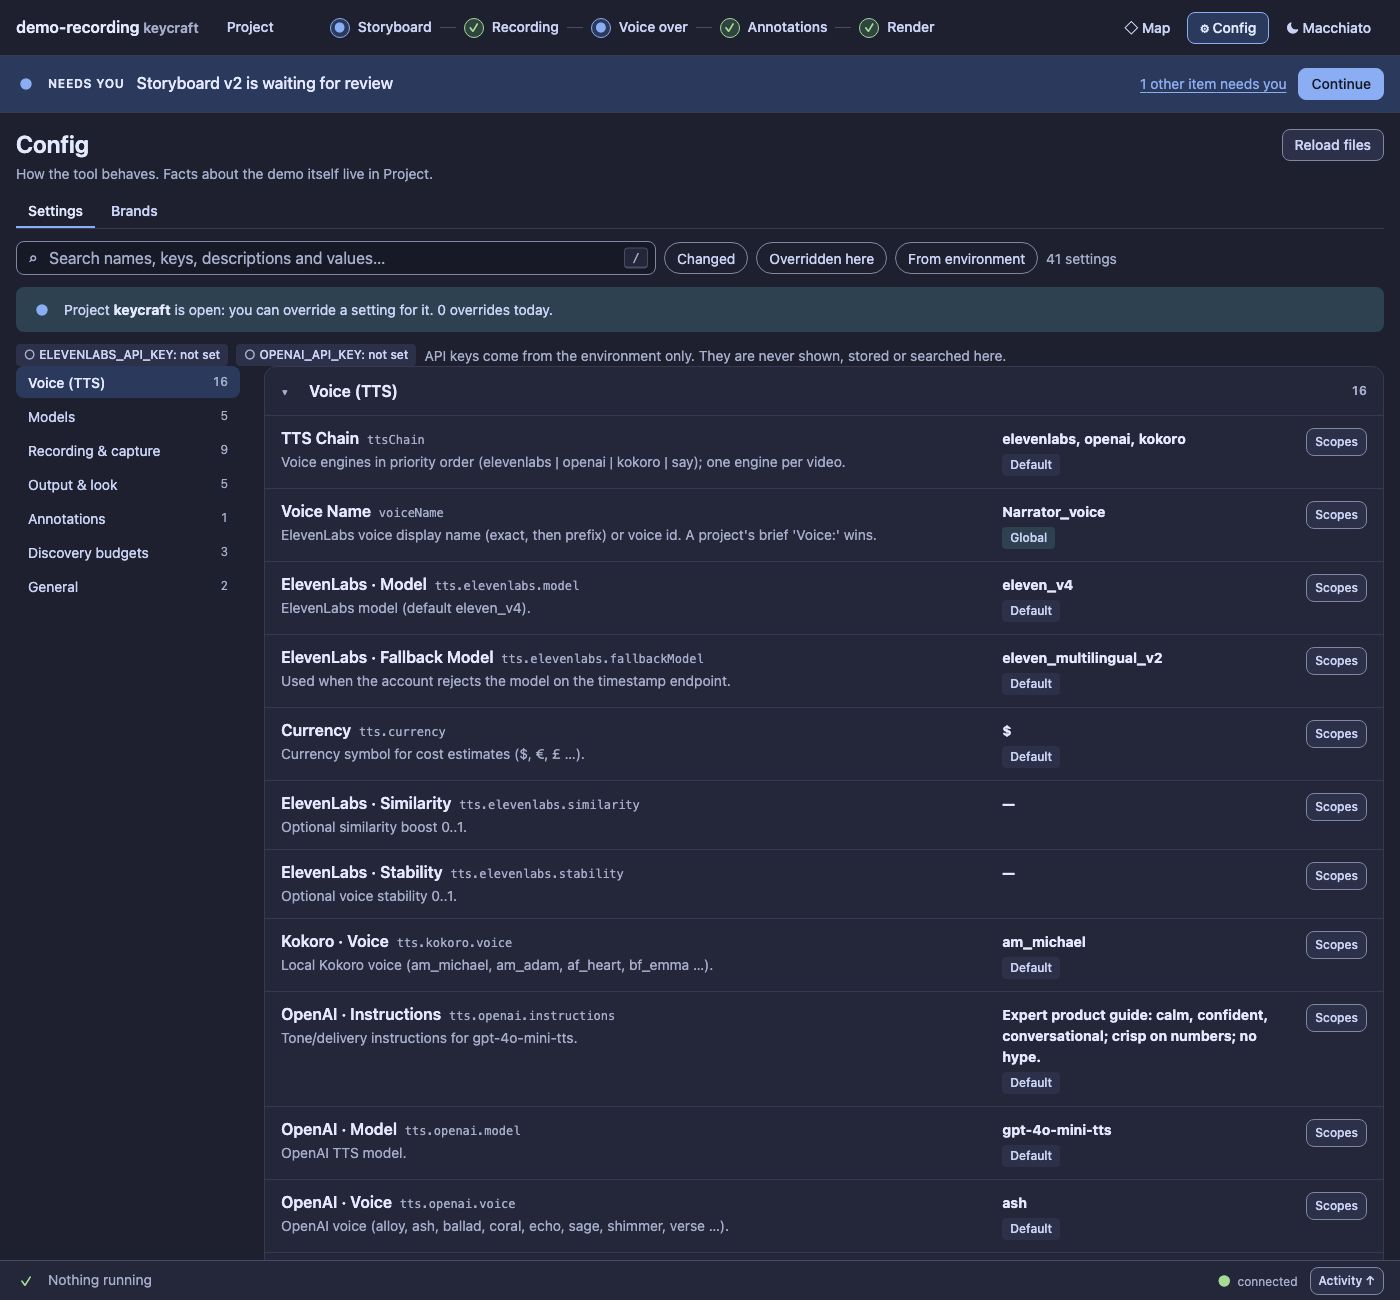
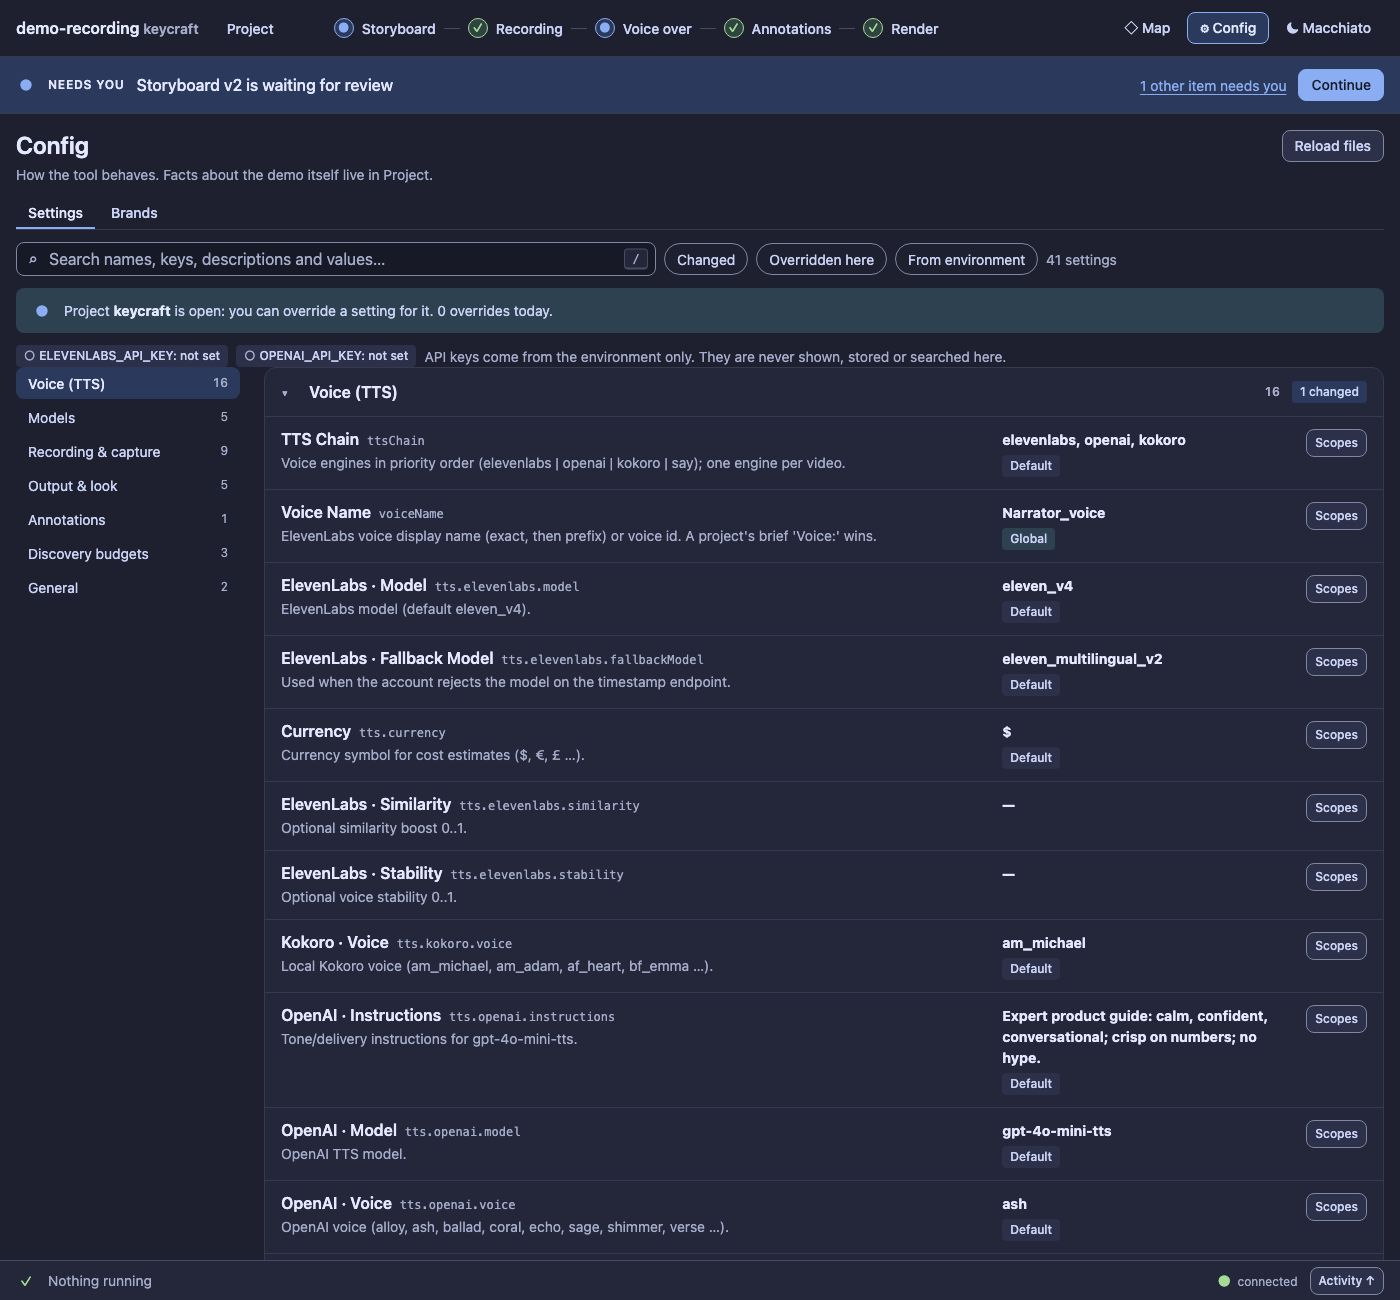
UX12: Config opens light (first group open, counts and changed markers on the group headers)

diff --git a/extensions/demo-recording/src/panel/public/config.js b/extensions/demo-recording/src/panel/public/config.js
@@ -4,6 +4,7 @@ import {
   FILTERS,
   filterGroups,
   highlight,
+  isChanged,
   queryFromSearch,
   same,
   searchFromQuery,
@@ -223,7 +224,8 @@ export function Settings({ events }) {
   const st = useMemo(() => searchFromQuery(route?.query), [route?.raw]);
   const [text, setText] = useState(st.q);
   const [rawTab, setRawTab] = useState("global");
-  const [collapsed, setCollapsed] = useState(new Set());
+  // Config opens light: only the first group is open until you open another one (a search opens what matches)
+  const [openGroups, setOpenGroups] = useState(null);
   const [openScopes, setOpenScopes] = useState(new Set());
   const [active, setActive] = useState(null);
   const input = useRef(null);
@@ -273,13 +275,16 @@ export function Settings({ events }) {
     .flatMap((g) => g.settings)
     .filter((s) => isSet(s.layers.project)).length;
   const firstHit = res.groups[0]?.id ?? data.groups[0]?.id;
-  const goTo = (id) => {
-    setActive(id);
-    setCollapsed((c) => {
-      const n = new Set(c);
-      n.delete(id);
+  const groupsOpen = openGroups ?? new Set(data.groups[0] ? [data.groups[0].id] : []);
+  const toggleGroup = (id) =>
+    setOpenGroups(() => {
+      const n = new Set(groupsOpen);
+      n.has(id) ? n.delete(id) : n.add(id);
       return n;
     });
+  const goTo = (id) => {
+    setActive(id);
+    setOpenGroups(() => new Set([...groupsOpen, id]));
     requestAnimationFrame(() =>
       document.getElementById(`g-${id}`)?.scrollIntoView({ block: "start" }),
     );
@@ -310,11 +315,12 @@ export function Settings({ events }) {
               res.searching && res.count === 0
                 ? html`<div class="ds-card"><div class="ds-state"><div class="ds-state-ico" aria-hidden="true">⌕</div><h3>No settings match${st.q.trim() ? ` “${st.q.trim()}”` : ""}</h3><p>Search looks at names, keys, descriptions and current values. Secrets are never searched.</p><button class="ds-btn" type="button" data-act="clear-search" onClick=${clear}>Clear search</button></div></div>`
                 : res.groups.map((g) => {
-                    const all =
-                      data.groups.find((x) => x.id === g.id)?.settings.length ?? g.settings.length;
-                    const isOpen = res.searching || !collapsed.has(g.id);
+                    const whole = data.groups.find((x) => x.id === g.id)?.settings ?? g.settings;
+                    const all = whole.length;
+                    const changedHere = whole.filter(isChanged).length;
+                    const isOpen = res.searching || groupsOpen.has(g.id);
                     return html`<section class="ds-group" id=${`g-${g.id}`} key=${g.id} aria-labelledby=${`gh-${g.id}`}>
-                      <button class="ds-group-head" id=${`gh-${g.id}`} type="button" data-group=${g.id} aria-expanded=${isOpen} onClick=${() => toggleIn(setCollapsed)(g.id)}><span class="ds-group-chev" aria-hidden="true">${isOpen ? "▾" : "▸"}</span>${g.label}<span class="ds-cfg-count">${res.searching ? `${g.settings.length} of ${all}` : all}</span></button>
+                      <button class="ds-group-head" id=${`gh-${g.id}`} type="button" data-group=${g.id} aria-expanded=${isOpen} onClick=${() => toggleGroup(g.id)}><span class="ds-group-chev" aria-hidden="true">${isOpen ? "▾" : "▸"}</span>${g.label}<span class="ds-cfg-count">${res.searching ? `${g.settings.length} of ${all}` : all}</span>${!res.searching && changedHere ? html`<span class="ds-badge" data-tone="accent" data-changed title="settings in this group that differ from their default">${changedHere} changed</span>` : null}</button>
                       ${isOpen ? g.settings.map((s) => html`<${SettingRow} key=${s.key} s=${s} project=${data.project} ws=${res.words} open=${openScopes.has(s.key)} toggle=${toggleIn(setOpenScopes)} files=${data.files} onSaved=${say} />`) : null}
                     </section>`;
                   })

diff --git a/extensions/demo-recording/test/ux9a-config-panel.test.ts b/extensions/demo-recording/test/ux9a-config-panel.test.ts
@@ -89,6 +89,14 @@ const keys = (p: Page) =>
   p.evaluate("[...document.querySelectorAll('.ds-srow')].map((e) => e.dataset.key)") as Promise<
     string[]
   >;
+/** Config opens light (UX12): open every group, as a person reading it all would. */
+const openAll = async (p: Page) => {
+  for (let i = 0; i < 20; i++) {
+    const closed = p.locator(".ds-group-head[aria-expanded=false]");
+    if ((await closed.count()) === 0) return;
+    await closed.first().click();
+  }
+};
 const card = (key: string) => `.ds-srow[data-key='${key}']`;
 const scopes = (key: string) => `${card(key)} [data-toggle]`;
 const count = (p: Page) => p.locator("[data-count]").innerText();
@@ -103,6 +111,11 @@ test(
     const { page, open, errors, close } = await setup();
     try {
       await open(page);
+      // opens light: one group open, the others a click away, each header says how many settings it holds
+      assert.equal(await page.locator(".ds-group-head[aria-expanded=true]").count(), 1);
+      assert.ok((await page.locator(".ds-group-head[aria-expanded=false]").count()) >= 5);
+      assert.ok((await keys(page)).length < 20, "only the first group's settings");
+      await openAll(page);
       const all = await keys(page);
       assert.ok(all.length > 20, "all the settings");
       assert.equal(new Set(all).size, all.length, "one card per setting");
@@ -129,8 +142,14 @@ test(
       assert.equal(await page.inputValue(".config-search input[type=search]"), "voice");
       await page.focus(".config-search input[type=search]");
       await page.keyboard.press("Escape");
-      await page.waitForFunction(`document.querySelectorAll(".ds-srow").length === ${total}`);
-      assert.equal(await page.evaluate("location.hash"), "#/config");
+      await page.waitForFunction("location.hash === '#/config'");
+      assert.equal(
+        await page.locator(".ds-group-head[aria-expanded=true]").count(),
+        1,
+        "clearing the search goes back to the light view",
+      );
+      await openAll(page);
+      assert.equal((await keys(page)).length, total);
       // no match: told apart from loading, with a way out
       await page.fill(".config-search input[type=search]", "zzzz-nothing");
       await page.waitForSelector(".ds-state");
@@ -139,7 +158,9 @@ test(
         /No settings match[\s\S]*zzzz-nothing/i,
       );
       await page.click("[data-act=clear-search]");
-      await page.waitForFunction(`document.querySelectorAll(".ds-srow").length === ${total}`);
+      await page.waitForSelector(".ds-group-head");
+      await openAll(page);
+      assert.equal((await keys(page)).length, total);
       assert.deepEqual(errors, []);
     } finally {
       await close();

diff --git a/extensions/demo-recording/test/s5-config-ui.test.ts b/extensions/demo-recording/test/s5-config-ui.test.ts
@@ -223,6 +223,8 @@ test(
         "raw global file shown",
       );
       // fps 30 → 24 (global)
+      for (let i = 0; i < 20 && (await page.locator(".ds-srow[data-key='fps']").count()) === 0; i++)
+        await page.locator(".ds-group-head[aria-expanded=false]").first().click();
       const fps = page.locator(".ds-srow[data-key='fps']");
       await fps.locator("[data-toggle]").click();
       await fps.locator("[data-act=edit-global]").click();

diff --git a/extensions/demo-recording/docs/IMPLEMENTATION_PLAN.md b/extensions/demo-recording/docs/IMPLEMENTATION_PLAN.md
@@ -1083,7 +1083,7 @@ measurably in sync (anchor drift p95 ≤ 150 ms) with dead time removed.
   | UX9c | **Final audit and a scored usability review** of the task scenarios in docs/UX.md §9, with a report | merged ([report](ux/UX9c.md)): 9 scenarios pass, Render 196 → 49 and Annotations 102 → 50 controls, axe serious 24 → 0; Undo, Config weight, Brand editor and target size left as follow-ups |
   | UX10 | **Versions selector and Render, after a side-by-side with the UX0 mock:** History renamed *Versions*, whole-row target; Render with *New render…* in the header, a runs table, drafts folded, player and QA side by side with a plain-words checklist, a pinned decision bar with its consequence | merged ([report](ux/UX10.md)); [BRANCHING.md](BRANCHING.md) documents how to start a second path, with the map as it looks in the panel |
   | UX11 | **Undo** after Approve & use, Approve only, Use for next steps and Withdraw approval: a toast action, a one-time server entry that restores approvals, line and phase only while nothing else changed them, a note (not a turn) to the Director | built, awaiting review ([report](ux/UX11.md)) |
-  | UX12 | **Config opens light:** only the first group (or the one a search matches) is open; group headers count their settings and mark "changed here" | planned (leftovers grill) |
+  | UX12 | **Config opens light:** only the first group (or the one a search matches) is open; group headers count their settings and mark "changed here" built ([report](ux/UX12.md)) |
   | UX13 | **Small targets:** a 24 px minimum on the shared components (buttons, chips, checks, range inputs), and the audit's small-target count ratcheted to 0 | planned |
   | UX14 | **Keyboard:** arrow keys, Home and End in every list, one tab stop per list, and a `?` sheet of the shortcuts that exist | planned |
   | UX15 | **Render finish:** a Download menu in the decision bar and a Full video / Scenes switch above the player | planned |

diff --git a/extensions/demo-recording/docs/ux/UX12.md b/extensions/demo-recording/docs/ux/UX12.md
@@ -1,0 +1,32 @@
+# UX12 report: Config opens light
+
+Slice UX12 (leftovers grill, UX9c follow-up). The UX9c review found Config the one screen that got heavier in the UX
+pass: 79 controls when it opened and a page 4,069 px tall (6,161 px at 900 px).
+
+## What changed
+
+- **Only the first group is open** when Config opens. The others are one click on their header (or on the group
+  navigator, which opens what it jumps to).
+- **A search still opens what matches**, and clearing it goes back to the light view.
+- **Each group header says how many settings it holds and how many of them are changed** (differ from the default),
+  so a closed group is not a black box: "Voice (TTS) 16 · 1 changed".
+- Nothing was removed. Every setting, Scopes, search and filter works as before.
+
+![Config opens on the first group; the others are closed](../images/ux/config/config-all-dark-1400.jpg)
+
+## Numbers
+
+| | before | now |
+| --- | --- | --- |
+| controls when Config opens (own, at 1500 px) | 66 | 41 |
+| page height at 1500 px | 4,069 px | 2,142 px |
+| page height at 900 px | 6,161 px | 3,000 px |
+
+The first group (Voice, 16 settings) is still the longest, so the page is halved rather than short. Ordering the
+groups by how often they are touched is a possible later change; it was not part of this slice.
+
+## Evidence
+
+`test/ux9a-config-panel.test.ts` now asserts that one group is open and the others closed, that clearing the search
+returns to that view, and opens every group where a test needs to read all settings. `s5-config-ui` opens the group
+of the setting it edits. The audit baseline was refreshed (serious axe nodes 0).
